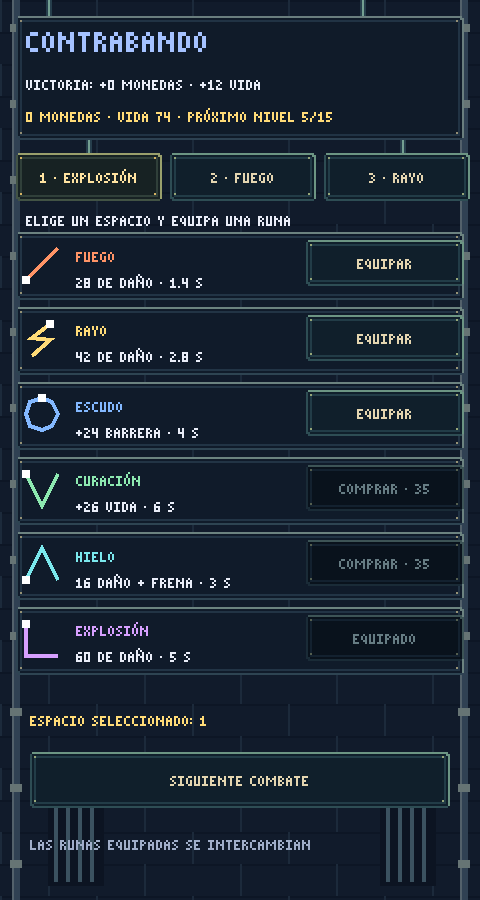
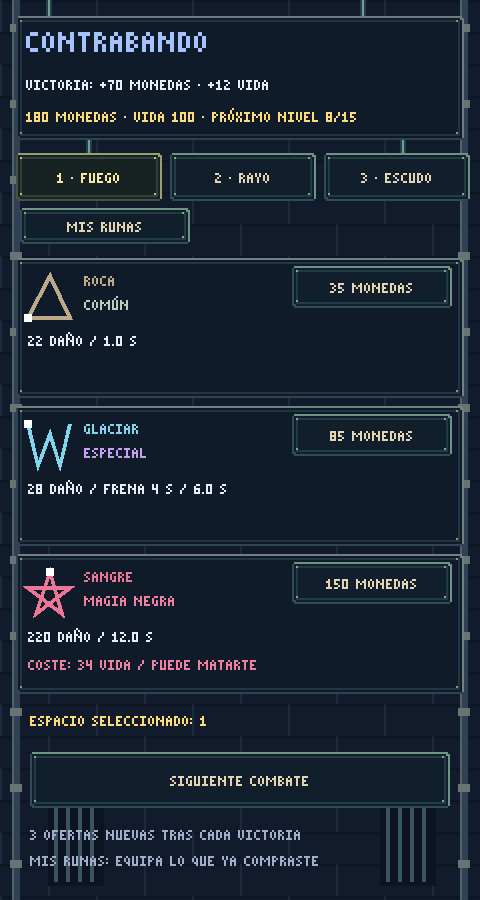
Add ten spells, weighted rarity shop and black magic consequences

diff --git a/README.md b/README.md
@@ -17,7 +17,7 @@ Las tres tarjetas superiores muestran tus gestos y su recarga. El enemigo ataca 
 | Hielo | V invertida desde abajo a la izquierda | 16 daño y congela 2,5 s | 3 s |
 | Explosión | L desde arriba a la izquierda | 60 daño | 5 s |
 
-Empiezas con fuego, rayo y escudo. Cada victoria otorga monedas y recupera 12 de vida. En el refugio selecciona uno de los tres espacios y compra un hechizo por 35 monedas, o equipa uno que ya posees. Equipar un hechizo que ya llevas intercambia los espacios. Puedes salir de la tienda sin comprar. La primera etapa completa cubre los niveles 1–15 del bloque de celdas. Todos los rivales son presos. Mazas (5) y La Cerrajera (10) son élites; El Síndico (15) es el jefe. Hay tienda entre combates y la victoria de etapa aparece únicamente tras derrotar al jefe. La tienda se presenta como contrabando entre presos.
+Empiezas con fuego, rayo y escudo. Cada victoria otorga monedas y recupera 12 de vida. En el refugio selecciona uno de los tres espacios y compra uno de los tres hechizos ofrecidos, o abre **Mis runas** para equipar uno que ya posees. Los precios dependen de la calidad. Equipar un hechizo que ya llevas intercambia los espacios. Puedes salir de la tienda sin comprar. La primera etapa completa cubre los niveles 1–15 del bloque de celdas. Todos los rivales son presos. Mazas (5) y La Cerrajera (10) son élites; El Síndico (15) es el jefe. Hay tienda entre combates y la victoria de etapa aparece únicamente tras derrotar al jefe. La tienda se presenta como contrabando entre presos.
 
 
 Las monedas y los hechizos comprados pertenecen a la partida actual. Reiniciar o cerrar el juego los borra. No hay todavía metaprogresión ni guardado.
@@ -34,7 +34,7 @@ Las monedas y los hechizos comprados pertenecen a la partida actual. Reiniciar o
 - `scripts/gestures.gd`: reconocimiento por remuestreo de 32 puntos y comparación con los hechizos equipados. Umbral configurable en `recognize`.
 - `tests/smoke.gd`: pruebas de reconocimiento y del flujo de una partida completa.
 
-Los gestos se definen en `templates()`. Para ampliar el catálogo habrá que mantener sincronizados sus datos y efectos en `main.gd`; conviene separarlos en recursos cuando crezca el prototipo. Los números actuales son de prueba, no un balance definitivo.
+Los gestos se definen en `templates()`. `scripts/spells.gd` centraliza nombres, calidades, precios, probabilidades, daño, recargas, colores y familias de poses; `main.gd` aplica los efectos adicionales. Al ampliar el catálogo, mantén alineados los IDs de las plantillas y del catálogo. Los números actuales son de prueba, no un balance definitivo.
 
 ## Validación en la nube
 
@@ -45,6 +45,7 @@ export XDG_CONFIG_HOME=/workspace/.config
 cd /workspace/PokerVS
 /workspace/.tools/godot-4.7/Godot_v4.7-stable_linux.x86_64 --headless --path . --editor --import
 /workspace/.tools/godot-4.7/Godot_v4.7-stable_linux.x86_64 --headless --path . --script res://tests/smoke.gd
+/workspace/.tools/godot-4.7/Godot_v4.7-stable_linux.x86_64 --headless --path . --script res://tests/spells.gd
 /workspace/.tools/godot-4.7/Godot_v4.7-stable_linux.x86_64 --headless --path . --quit-after 120
 ```
 
@@ -56,7 +57,7 @@ En otra máquina sustituye la ruta del ejecutable por tu Godot 4.7. Estas compro
 2. Configura OpenJDK 17 y Android SDK según la documentación de exportación Android de Godot. Define sus rutas en los ajustes del editor.
 3. En **Proyecto → Exportar**, añade un destino Android, establece un identificador de paquete propio y exporta un APK de depuración. No necesitas modificar escenas para pasar de ratón a tacto: está activada la emulación de ratón desde la pantalla táctil.
 4. Instala el APK en tu teléfono o usa el despliegue con USB y depuración USB habilitada.
-5. Verifica los seis gestos a distintas velocidades, las tres tarjetas en pantalla, las tiendas, las recargas, la derrota y la victoria. Comprueba especialmente márgenes y legibilidad en tu modelo.
+5. Verifica los dieciséis gestos a distintas velocidades, las tres tarjetas en pantalla y los costes de magia negra, las tiendas, las recargas, la derrota y la victoria. Comprueba especialmente márgenes y legibilidad en tu modelo.
 
 La ventana lógica es de 480 × 900, orientación vertical y proporción conservada; otras pantallas pueden mostrar bandas. Se usa el renderizador Compatibility para este prototipo 2D. No se ha generado ni probado un APK en este entorno y no se incluyen credenciales de firma.
 
@@ -152,3 +153,40 @@ Las curaciones y barreras consumen un turno sin causar daño. El HUD anuncia la 
 La victoria concede `35 + nivel × 5` monedas, más 20 en niveles 5, 10 y 15, y recupera hasta 12 de vida. Las tiendas conservan las compras y tres espacios de hechizos durante los 15 combates. Completar el bloque no abre todavía la segunda etapa. El equilibrio es provisional y requiere pruebas de dibujo en Android.
 
 [El Síndico en combate](docs/boss.png).
+
+## Calidades, ofertas y diez hechizos nuevos
+
+La tienda sortea **tres hechizos distintos que todavía no posees**, una sola vez tras cada victoria que lleva a una tienda. Cambiar de espacio, comprar o abrir **Mis runas** no renueva las ofertas. Una compra queda en esa tarjeta como equipable hasta el próximo combate; no puedes pagarla dos veces. Si quedan menos de tres hechizos sin comprar, se muestran los restantes; si tienes todos, se indica que la colección está completa. **Mis runas** pagina los hechizos adquiridos, de tres en tres, para equiparlos gratis. Sigues llevando exactamente tres y sin duplicados.
+
+| Calidad | Peso de aparición | Precio |
+| --- | --- | --- |
+| Común | 60 | 35 |
+| Raro | 24 | 55 |
+| Especial | 10 | 85 |
+| Legendario | 5 | 120 |
+| Magia negra | 1 | 150 |
+
+Para cada oferta se elige primero una calidad y luego un hechizo uniforme dentro de ella. Los pesos equivalen a 60/24/10/5/1 % cuando las cinco calidades tienen candidatos. Se excluyen los hechizos poseídos y los ya sorteados en esa tienda; al agotarse una calidad, se renormalizan los pesos restantes. No son porcentajes por tienda completa ni garantías de conseguir una calidad.
+
+Los iniciales Fuego y Escudo son comunes; Rayo, Curación e Hielo son raros; Explosión es especial. Las nuevas runas son:
+
+| Hechizo | Calidad | Gesto (desde el punto blanco) | Efecto | Recarga |
+| --- | --- | --- | --- | --- |
+| Roca | Común | Triángulo desde abajo a la izquierda | 22 daño | 1 s |
+| Viento | Común | Z desde arriba a la izquierda | 18 daño y frena 0,6 s | 1,8 s |
+| Brote | Raro | M desde abajo a la izquierda | +18 vida y +12 barrera | 5 s |
+| Lanza | Raro | > desde arriba a la izquierda | 60 daño, ignora la barrera | 4 s |
+| Glaciar | Especial | W desde arriba a la izquierda | 28 daño y frena 4 s | 6 s |
+| Trueno | Especial | N desde abajo a la izquierda | 90 daño | 6 s |
+| Égida | Legendario | Rombo horario desde arriba | +48 barrera y +20 vida | 9 s |
+| Meteoro | Legendario | Cuadrado horario desde arriba a la izquierda | 140 daño | 9 s |
+| Sangre | Magia negra | Estrella de cinco puntas desde arriba | 220 daño; sacrifica 34 vida | 12 s |
+| Vacío | Magia negra | Espiral cuadrada hacia dentro | 180 daño; parálisis propia de 3 s | 10 s |
+
+Todos se dibujan en un solo trazo. Los nuevos lanzamientos reutilizan las seis familias de gestos de manos, con colores propios y su runa pixelada al impactar. La vida no supera 100 y la barrera no supera 48. Lanza ignora la barrera enemiga sin consumirla. Las congelaciones no acortan una congelación más larga que siga activa.
+
+**Sangre** cuesta un tercio de la vida máxima, redondeado hacia arriba: 34 puntos cada lanzamiento. La barrera no absorbe este coste. Puede matarte; si ambos caen al mismo tiempo, pierdes y no cobras la victoria. **Vacío** bloquea nuevos dibujos y lanzamientos durante 3 segundos; los enemigos y las recargas siguen avanzando. El HUD muestra la cuenta atrás y las runas bloqueadas. Los efectos negativos se limpian al cambiar de combate o reiniciar. Ambos costes aparecen en las tarjetas de compra y en **Mis runas**.
+
+`tests/spells.gd` comprueba el catálogo nuevo, las compras, el inventario, el agotamiento de ofertas, 20.000 sorteos con semilla fija y los efectos secundarios. Los valores y probabilidades son configurables y el equilibrio sigue pendiente de pruebas en Android físico.
+
+[Magia negra durante un combate](docs/black_magic.png).
